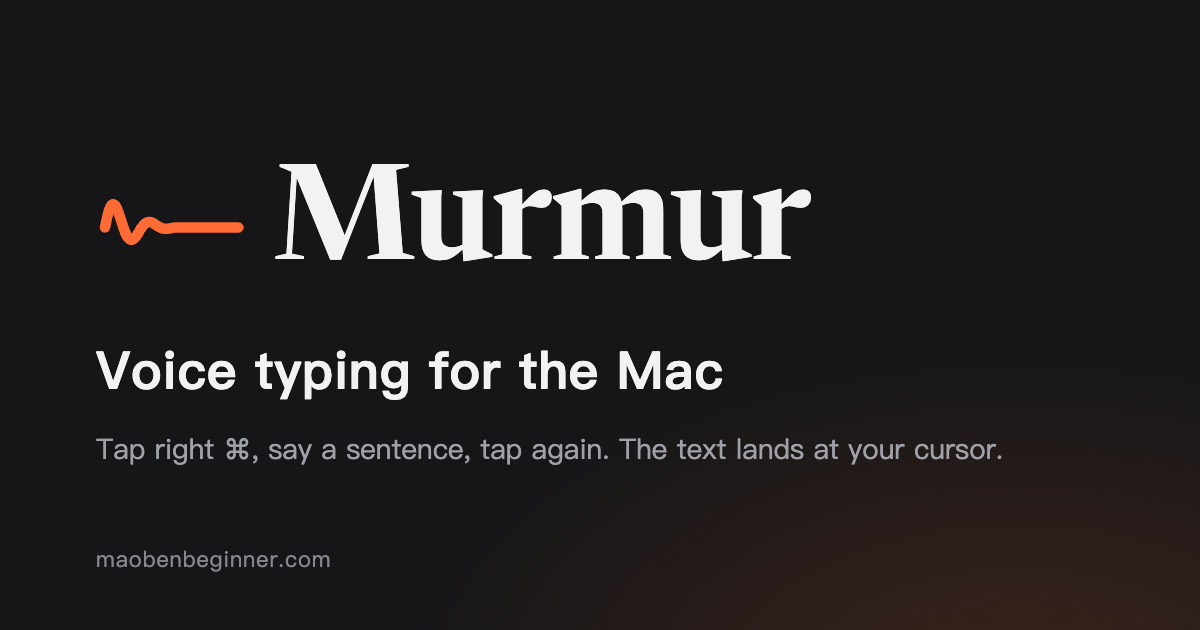
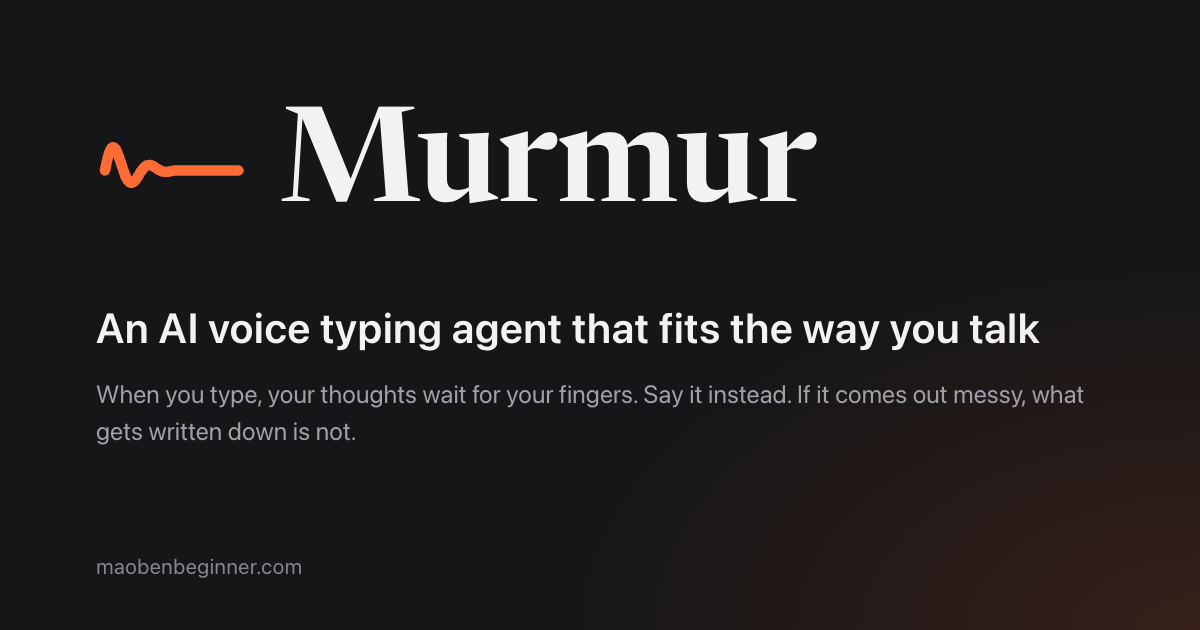
首屏换组合 B,标题做成全站常量,首屏字体统一成一种
为什么:Wei 10-13 定首屏用组合 B,标题是他口述的「符合你的 AI 智能语音输入体」(字序领导者还在和他确认,
所以做成一个常量,确认后改一处、跑一条命令全站跟着变);他还要「字体统一」:旧标题里「语音」两个字是衬线斜体、
其余是黑体,一行里两种字体两种字重。

改了什么:
- tools/hero-title.json = 中英标题与副标题的唯一出处(「|」= 两行排版的换行处);
  tools/set-hero-title.py 把它铺到中英首页的 h1 / 副标题 / <title> / description / og:title / og:description
  与全站 17 页的 og:image:alt;--check 只核对,不一致退 1。
- tools/og/render.sh + og.tpl.html:按同一份 JSON 用无头 Chrome(mock 钥匙串、临时 profile)重出 og.png / og-en.png,
  分享图上不再印「Mac 上的语音输入」。
- 首屏标题去掉 <span class="serif">,整句用站点正文的无衬线、同一字重;英文页同样统一,手机宽按词自然折行。
- 首屏其余按 round2 FINAL 组合 B:副标题;按钮「下载 Mac 版 · 关于 Windows 版 · 看演示」,手机上主按钮换「申请账号」、
  下载收起;按钮下一行「免费 · macOS 26 及以上 · M 系列芯片」;手机专用一行「现在能下载的是 Mac 版…」(桌面不显示);
  演示下一句「按一下右 ⌘ 开始,再按一下结束。」。英文同义。

验:set-hero-title.py --check 全站一致;把 JSON 里标题改一个字,--check 列出 9 页、退 1(变异抓到),还原后退 0。

Changed region(s): [[0.0617, 0.4825, 0.8942, 0.754], [0.0617, 0.1508, 0.6783, 0.4222], [0.0617, 0.8746, 0.2775, 0.9349]]

diff --git a/en/index.html b/en/index.html
@@ -5,19 +5,19 @@
 <meta http-equiv="Content-Security-Policy" content="default-src 'none'; script-src 'self' 'unsafe-inline'; style-src 'self' 'unsafe-inline'; img-src 'self' data:; font-src 'self'; connect-src 'none'; object-src 'none'; base-uri 'none'; form-action 'none'">
 <meta name="viewport" content="width=device-width, initial-scale=1">
 <script>document.documentElement.classList.add('js');</script>
-<title>Murmur · Voice typing for the Mac</title>
-<meta name="description" content="Voice typing for the Mac. Tap right ⌘, say a sentence, tap again, and the text is at your cursor. On-device or cloud recognition.">
+<title>Murmur · An AI voice typing agent that fits the way you talk</title>
+<meta name="description" content="An AI voice typing agent that fits the way you talk. When you type, your thoughts wait for your fingers. Say it instead. If it comes out messy, what gets written down is not.">
 <link rel="canonical" href="https://maobenbeginner.com/en/">
 <meta property="og:type" content="website">
 <meta property="og:site_name" content="Murmur">
 <meta property="og:locale" content="en_US">
 <meta property="og:url" content="https://maobenbeginner.com/en/">
-<meta property="og:title" content="Murmur · Voice typing for the Mac">
-<meta property="og:description" content="Voice typing for the Mac. Tap right ⌘, say a sentence, tap again, and the text is at your cursor. On-device or cloud recognition.">
+<meta property="og:title" content="Murmur · An AI voice typing agent that fits the way you talk">
+<meta property="og:description" content="An AI voice typing agent that fits the way you talk. When you type, your thoughts wait for your fingers. Say it instead. If it comes out messy, what gets written down is not.">
 <meta property="og:image" content="https://maobenbeginner.com/og-en.png">
 <meta property="og:image:width" content="1200">
 <meta property="og:image:height" content="630">
-<meta property="og:image:alt" content="Murmur · Voice typing for the Mac">
+<meta property="og:image:alt" content="Murmur · An AI voice typing agent that fits the way you talk">
 <meta name="twitter:card" content="summary_large_image">
 <link rel="icon" href="../favicon.svg" type="image/svg+xml">
 <link rel="apple-touch-icon" href="../apple-touch-icon.png">
@@ -236,7 +236,14 @@ h2 { font-size: clamp(26px, 3.4vw, 34px); font-weight: 600; line-height: 1.35; l
   font-size: clamp(34px, 5.4vw, 56px);
   font-weight: 600; line-height: 1.28; letter-spacing: .01em;
 }
-.hero h1 .serif { font-weight: 500; font-style: italic; }
+/* SITE-V3(Wei 10-13「字体统一」):首屏标题一种字体、一种字重 —— 站点正文的无衬线;不再给某几个字换衬线斜体。
+   标题和副标题的字只在 tools/hero-title.json 里写,tools/set-hero-title.py 铺到页面。 */
+.hero h1 { font-family: inherit; }
+.hero .lede, .hero .mobile-path { text-wrap: balance; }
+@media (max-width: 600px) { .hero .lede br, .hero h1 br { display: none; } }   /* 英文标题在手机上按词自然折行 */
+.hero h1 { text-wrap: balance; }
+.req { margin-top: 18px; font-size: 13.5px; color: var(--faint); letter-spacing: .02em; }
+.only-phone { display: none; }
 .hero .lede {
   color: var(--second); font-size: clamp(15.5px, 1.8vw, 17.5px);
   max-width: 34em; margin: 22px auto 0;
@@ -745,9 +752,10 @@ body.is-sandbox .sandbox { display: inline-block; }
 
 .cta-apply { display: none; }
 @media (max-width: 820px) {
+  /* 手机上 Mac 版装不了:主按钮换成「申请账号」,下载收起;关于 Windows 版、看演示照留(round2 定稿) */
   .hero .cta-apply { display: inline-block; }
-  .hero .cta-dl { background: transparent; color: var(--second); border: 1px solid var(--line2); }
-  .hero .cta-demo { display: none; }
+  .hero .cta-dl { display: none; }
+  .only-phone { display: block; }
   section { padding-top: 80px; }
   .compare, .promises { grid-template-columns: 1fr; }
   .detail-list { grid-template-columns: 1fr; }
@@ -833,26 +841,23 @@ body.is-sandbox .sandbox { display: inline-block; }
 
 <!-- ── Hero:全页最大的一场动画只留给「说完,字落下」── -->
 <header class="hero wrap" id="top">
-  <h1 class="reveal">Voice typing<br>for the <span class="serif">Mac</span>.</h1>
-  <p class="lede reveal">Put the cursor in a text field, tap right ⌘ and say a sentence. Tap again and the text is there.
-  The ums and uhs are removed, and English mixed with Chinese comes out right. It works in chat, email and the terminal. Requires macOS 26 or later.</p>
-  <!-- SITEFIX-7:手机(≤820px)上 Mac 版装不了 → 主按钮换成「申请名额」,下载降为次按钮,「看演示」收起(演示就在下面)。 -->
+  <h1 class="reveal" data-hero-title>An AI voice typing agent <br>that fits the way you talk.</h1>
+  <p class="lede reveal" data-hero-lede>When you type, your thoughts wait for your fingers. <br>Say it instead. If it comes out messy, what gets written down is not.</p>
+  <!-- SITEFIX-7 → SITE-V3:手机(≤820px)上 Mac 版装不了 → 主按钮换成「申请账号」,「下载 Mac 版」收起;关于 Windows 版、看演示照留。 -->
   <div class="cta-row reveal">
-    <a class="btn btn-primary cta-apply" href="login/index.html#apply">Ask for a seat</a>
-    <a class="btn btn-primary cta-dl" href="#download">Download for macOS</a>
+    <a class="btn btn-primary cta-dl" href="#download">Download for Mac</a>
+    <a class="btn btn-primary cta-apply" href="login/index.html#apply">Request an account</a>
     <a class="btn btn-quiet" href="#windows">About Windows</a>
     <a class="btn btn-quiet cta-demo" href="#demo">Watch the demo</a>
   </div>
-  <!-- ⭐ The path for someone on a phone: the button above is a Mac app they
-       cannot install here. Most people arriving from social links are on a
-       phone, and this line is the only road they have. Shown on desktop too —
-       one small line, it does not compete with the CTA. -->
-  <p class="mobile-path reveal">It does not install on a phone. You can <a href="login/index.html#apply">ask for a seat</a> or <a href="try/index.html">try the cleanup in the browser →</a></p>
+  <p class="req reveal">Free · macOS 26 or later · Apple silicon</p>
+  <!-- ⭐ The path for someone on a phone: the Mac app does not install there. Shown at phone widths only. -->
+  <p class="mobile-path only-phone reveal">The download is for Mac for now. On your phone, paste something you would say and <a href="try/index.html">see what it turns into →</a></p>
 
   <div class="stage reveal" id="demo">
     <div class="fake-input"><span class="ph">your cursor is here</span><span class="out"></span><span class="cursor"></span></div>
     <div class="capsule-mount" data-caption="above"></div>
-    <p class="stage-note">This capsule shows up while you speak. Press Esc to cancel the sentence.</p>
+    <p class="stage-note">Tap right ⌘ to start. Tap again to stop.</p>
   </div>
 </header>
 

diff --git a/index.html b/index.html
@@ -5,19 +5,19 @@
 <meta http-equiv="Content-Security-Policy" content="default-src 'none'; script-src 'self' 'unsafe-inline'; style-src 'self' 'unsafe-inline'; img-src 'self' data:; font-src 'self'; connect-src 'none'; object-src 'none'; base-uri 'none'; form-action 'none'">
 <meta name="viewport" content="width=device-width, initial-scale=1">
 <script>document.documentElement.classList.add('js');</script>
-<title>Murmur · Mac 上的语音输入</title>
-<meta name="description" content="Mac 上的语音输入。按右 ⌘ 说一句,再按一下,字就落在光标处。中英夹着说照样准。">
+<title>Murmur · 符合你的 AI 智能语音输入体</title>
+<meta name="description" content="符合你的 AI 智能语音输入体。打字的时候,想法要等手。说出来就不用等,说乱了也没关系,出来的是顺的。">
 <link rel="canonical" href="https://maobenbeginner.com/">
 <meta property="og:type" content="website">
 <meta property="og:site_name" content="Murmur">
 <meta property="og:locale" content="zh_CN">
 <meta property="og:url" content="https://maobenbeginner.com/">
-<meta property="og:title" content="Murmur · Mac 上的语音输入">
-<meta property="og:description" content="Mac 上的语音输入。按右 ⌘ 说一句,再按一下,字就落在光标处。中英夹着说照样准。">
+<meta property="og:title" content="Murmur · 符合你的 AI 智能语音输入体">
+<meta property="og:description" content="符合你的 AI 智能语音输入体。打字的时候,想法要等手。说出来就不用等,说乱了也没关系,出来的是顺的。">
 <meta property="og:image" content="https://maobenbeginner.com/og.png">
 <meta property="og:image:width" content="1200">
 <meta property="og:image:height" content="630">
-<meta property="og:image:alt" content="Murmur · Mac 上的语音输入">
+<meta property="og:image:alt" content="Murmur · 符合你的 AI 智能语音输入体">
 <meta name="twitter:card" content="summary_large_image">
 <link rel="alternate" hreflang="zh-CN" href="https://maobenbeginner.com/">
 <link rel="alternate" hreflang="en" href="https://maobenbeginner.com/en/">
@@ -238,7 +238,13 @@ h2 { font-size: clamp(26px, 3.4vw, 34px); font-weight: 600; line-height: 1.35; l
   font-size: clamp(34px, 5.4vw, 56px);
   font-weight: 600; line-height: 1.28; letter-spacing: .01em;
 }
-.hero h1 .serif { font-weight: 500; font-style: italic; }
+/* SITE-V3(Wei 10-13「字体统一」):首屏标题一种字体、一种字重 —— 站点正文的无衬线;不再给某几个字换衬线斜体。
+   标题和副标题的字只在 tools/hero-title.json 里写,tools/set-hero-title.py 铺到页面。 */
+.hero h1 { font-family: inherit; }
+.hero .lede, .hero .mobile-path { text-wrap: balance; }
+@media (max-width: 600px) { .hero .lede br { display: none; } }
+.req { margin-top: 18px; font-size: 13.5px; color: var(--faint); letter-spacing: .02em; }
+.only-phone { display: none; }
 .hero .lede {
   color: var(--second); font-size: clamp(15.5px, 1.8vw, 17.5px);
   max-width: 34em; margin: 22px auto 0;
@@ -747,9 +753,10 @@ body.is-sandbox .sandbox { display: inline-block; }
 
 .cta-apply { display: none; }
 @media (max-width: 820px) {
+  /* 手机上 Mac 版装不了:主按钮换成「申请账号」,下载收起;关于 Windows 版、看演示照留(round2 定稿) */
   .hero .cta-apply { display: inline-block; }
-  .hero .cta-dl { background: transparent; color: var(--second); border: 1px solid var(--line2); }
-  .hero .cta-demo { display: none; }
+  .hero .cta-dl { display: none; }
+  .only-phone { display: block; }
   section { padding-top: 80px; }
   .compare, .promises { grid-template-columns: 1fr; }
   .detail-list { grid-template-columns: 1fr; }
@@ -835,25 +842,23 @@ body.is-sandbox .sandbox { display: inline-block; }
 
 <!-- ── Hero:全页最大的一场动画只留给「说完,字落下」── -->
 <header class="hero wrap" id="top">
-  <h1 class="reveal">Mac 上的<br><span class="serif">语音</span>输入。</h1>
-  <p class="lede reveal">光标放进输入框,按右 ⌘ 说一句,再按一下,字就在那儿。
-  嗯、啊、那个自动去掉,中英夹着说照样准。微信、邮件、终端里都能用。macOS 26 以上。</p>
-  <!-- SITEFIX-7:手机(≤820px)上 Mac 版装不了 → 主按钮换成「申请名额」,下载降为次按钮,「看演示」收起(演示就在下面)。 -->
+  <h1 class="reveal" data-hero-title>符合你的 <br>AI 智能语音输入体。</h1>
+  <p class="lede reveal" data-hero-lede>打字的时候,想法要等手。<br>说出来就不用等,说乱了也没关系,出来的是顺的。</p>
+  <!-- SITEFIX-7 → SITE-V3:手机(≤820px)上 Mac 版装不了 → 主按钮换成「申请账号」,「下载 Mac 版」收起;关于 Windows 版、看演示照留。 -->
   <div class="cta-row reveal">
-    <a class="btn btn-primary cta-apply" href="login/index.html#apply">申请名额</a>
-    <a class="btn btn-primary cta-dl" href="#download">下载 macOS 版</a>
+    <a class="btn btn-primary cta-dl" href="#download">下载 Mac 版</a>
+    <a class="btn btn-primary cta-apply" href="login/index.html#apply">申请账号</a>
     <a class="btn btn-quiet" href="#windows">关于 Windows 版</a>
     <a class="btn btn-quiet cta-demo" href="#demo">看演示</a>
   </div>
-  <!-- ⭐ 手机上的那条路:上面那枚「下载」是 Mac 版,在手机上装不了。
-       从微信 / 小红书点进来的人多数在手机上,这一行是他们唯一能走的路。
-       桌面上也显示 —— 一行小字,不抢 CTA。 -->
-  <p class="mobile-path reveal">手机上装不了。可以先<a href="login/index.html#apply">申请名额</a>,或者<a href="try/index.html">在网页上试整理 →</a></p>
+  <p class="req reveal">免费 · macOS 26 及以上 · M 系列芯片</p>
+  <!-- ⭐ 手机上的那条路:从微信 / 小红书点进来的人多数在手机上,Mac 版装不了,这一行是他们能走的路。只在手机宽度显示。 -->
+  <p class="mobile-path only-phone reveal">现在能下载的是 Mac 版。在手机上,可以先粘一句平时说的话,<a href="try/index.html">看它改成什么样 →</a></p>
 
   <div class="stage reveal" id="demo">
     <div class="fake-input"><span class="ph">光标在这里</span><span class="out"></span><span class="cursor"></span></div>
     <div class="capsule-mount" data-caption="above"></div>
-    <p class="stage-note">说话时会出现这条胶囊。按 Esc 取消这一句。</p>
+    <p class="stage-note">按一下右 ⌘ 开始,再按一下结束。</p>
   </div>
 </header>
 

diff --git a/tools/og/og.tpl.html b/tools/og/og.tpl.html
@@ -1,0 +1,30 @@
+<!doctype html>
+<html lang="{{LANG}}">
+<head>
+<meta charset="utf-8">
+<!-- 分享图模板(1200×630)。tools/og/render.sh 按 tools/hero-title.json 填字后用无头 Chrome 截图;不对外发布。 -->
+<style>
+@font-face { font-family: 'Newsreader'; font-weight: 500 600; src: url('{{FONTS}}/Newsreader-normal-500-latin.woff2') format('woff2'); }
+html, body { margin: 0; width: 1200px; height: 630px; overflow: hidden; }
+body {
+  background: radial-gradient(900px 520px at 100% 100%, rgba(226, 83, 31, .16), transparent 70%), #161618;
+  color: #F2F2F4; -webkit-font-smoothing: antialiased;
+  font-family: -apple-system, BlinkMacSystemFont, "PingFang SC", "Hiragino Sans GB", sans-serif;
+  box-sizing: border-box; padding: 104px 96px 52px; display: flex; flex-direction: column;
+}
+.brand { display: flex; align-items: center; gap: 34px; }
+.brand svg { width: 150px; height: 75px; }
+.brand b { font-family: "Newsreader", Georgia, serif; font-weight: 600; font-size: 132px; line-height: 1; letter-spacing: -.01em; }
+h1 { margin: 64px 0 0; font-size: 46px; text-wrap: balance; font-weight: 600; line-height: 1.3; letter-spacing: .01em; }
+html[lang=en] h1 { font-size: 42px; }
+p { margin: 20px 0 0; font-size: 25px; text-wrap: pretty; line-height: 1.5; color: #A0A0A8; max-width: 1000px; }
+.site { margin-top: auto; font-size: 21px; color: #86868E; letter-spacing: .02em; }
+</style>
+</head>
+<body>
+<div class="brand"><svg viewBox="0 0 200 100" aria-hidden="true"><path d="M12.0 50.0 L14.0 40.1 L16.0 31.7 L18.0 25.2 L20.0 21.0 L22.0 19.0 L24.0 19.2 L26.0 21.3 L28.0 25.2 L30.0 30.3 L32.0 36.2 L34.0 42.4 L36.0 48.5 L38.0 54.2 L40.0 59.0 L42.0 62.7 L44.0 65.2 L46.0 66.5 L48.0 66.5 L50.0 65.5 L52.0 63.5 L54.0 60.9 L56.0 57.8 L58.0 54.6 L60.0 51.5 L62.0 48.6 L64.0 46.2 L66.0 44.4 L68.0 43.2 L70.0 42.7 L72.0 42.7 L74.0 43.2 L76.0 44.1 L78.0 45.3 L80.0 46.7 L82.0 48.0 L84.0 49.2 L86.0 50.2 L88.0 51.0 L90.0 51.5 L92.0 51.8 L94.0 51.8 L96.0 51.6 L98.0 51.3 L100.0 50.9 L102.0 50.5 L104.0 50.2 L106.0 50.0 L190 50" fill="none" stroke="#FF6B35" stroke-width="14" stroke-linecap="round" stroke-linejoin="round"/></svg><b>Murmur</b></div>
+<h1>{{TITLE}}</h1>
+<p>{{LEDE}}</p>
+<div class="site">maobenbeginner.com</div>
+</body>
+</html>

diff --git a/en/skills/index.html b/en/skills/index.html
@@ -17,7 +17,7 @@
 <meta property="og:image" content="https://maobenbeginner.com/og-en.png">
 <meta property="og:image:width" content="1200">
 <meta property="og:image:height" content="630">
-<meta property="og:image:alt" content="Murmur · Voice typing for the Mac">
+<meta property="og:image:alt" content="Murmur · An AI voice typing agent that fits the way you talk">
 <meta name="twitter:card" content="summary_large_image">
 <link rel="alternate" hreflang="zh-CN" href="https://maobenbeginner.com/skills/">
 <link rel="alternate" hreflang="en" href="https://maobenbeginner.com/en/skills/">

diff --git a/en/guide/index.html b/en/guide/index.html
@@ -17,7 +17,7 @@
 <meta property="og:image" content="https://maobenbeginner.com/og-en.png">
 <meta property="og:image:width" content="1200">
 <meta property="og:image:height" content="630">
-<meta property="og:image:alt" content="Murmur · Voice typing for the Mac">
+<meta property="og:image:alt" content="Murmur · An AI voice typing agent that fits the way you talk">
 <meta name="twitter:card" content="summary_large_image">
 <link rel="alternate" hreflang="zh-CN" href="https://maobenbeginner.com/guide/">
 <link rel="alternate" hreflang="en" href="https://maobenbeginner.com/en/guide/">

diff --git a/en/demo/index.html b/en/demo/index.html
@@ -20,7 +20,7 @@
 <meta property="og:image" content="https://maobenbeginner.com/og-en.png">
 <meta property="og:image:width" content="1200">
 <meta property="og:image:height" content="630">
-<meta property="og:image:alt" content="Murmur · Voice typing for the Mac">
+<meta property="og:image:alt" content="Murmur · An AI voice typing agent that fits the way you talk">
 <meta name="twitter:card" content="summary_large_image">
 <link rel="alternate" hreflang="zh-CN" href="https://maobenbeginner.com/demo/">
 <link rel="alternate" hreflang="en" href="https://maobenbeginner.com/en/demo/">

diff --git a/en/try/index.html b/en/try/index.html
@@ -19,7 +19,7 @@
 <meta property="og:image" content="https://maobenbeginner.com/og-en.png">
 <meta property="og:image:width" content="1200">
 <meta property="og:image:height" content="630">
-<meta property="og:image:alt" content="Murmur · Voice typing for the Mac">
+<meta property="og:image:alt" content="Murmur · An AI voice typing agent that fits the way you talk">
 <meta name="twitter:card" content="summary_large_image">
 <link rel="alternate" hreflang="zh-CN" href="https://maobenbeginner.com/try/">
 <link rel="alternate" hreflang="en" href="https://maobenbeginner.com/en/try/">

diff --git a/privacy.html b/privacy.html
@@ -17,7 +17,7 @@
 <meta property="og:image" content="https://maobenbeginner.com/og.png">
 <meta property="og:image:width" content="1200">
 <meta property="og:image:height" content="630">
-<meta property="og:image:alt" content="Murmur · Mac 上的语音输入">
+<meta property="og:image:alt" content="Murmur · 符合你的 AI 智能语音输入体">
 <meta name="twitter:card" content="summary_large_image">
 <link rel="alternate" hreflang="zh-CN" href="https://maobenbeginner.com/privacy.html">
 <link rel="alternate" hreflang="en" href="https://maobenbeginner.com/en/privacy.html">

diff --git a/tos.html b/tos.html
@@ -16,7 +16,7 @@
 <meta property="og:image" content="https://maobenbeginner.com/og.png">
 <meta property="og:image:width" content="1200">
 <meta property="og:image:height" content="630">
-<meta property="og:image:alt" content="Murmur · Mac 上的语音输入">
+<meta property="og:image:alt" content="Murmur · 符合你的 AI 智能语音输入体">
 <meta name="twitter:card" content="summary_large_image">
 <link rel="alternate" hreflang="zh-CN" href="https://maobenbeginner.com/tos.html">
 <link rel="alternate" hreflang="en" href="https://maobenbeginner.com/en/tos.html">

diff --git a/skills/index.html b/skills/index.html
@@ -17,7 +17,7 @@
 <meta property="og:image" content="https://maobenbeginner.com/og.png">
 <meta property="og:image:width" content="1200">
 <meta property="og:image:height" content="630">
-<meta property="og:image:alt" content="Murmur · Mac 上的语音输入">
+<meta property="og:image:alt" content="Murmur · 符合你的 AI 智能语音输入体">
 <meta name="twitter:card" content="summary_large_image">
 <link rel="alternate" hreflang="zh-CN" href="https://maobenbeginner.com/skills/">
 <link rel="alternate" hreflang="en" href="https://maobenbeginner.com/en/skills/">

diff --git a/guide/index.html b/guide/index.html
@@ -17,7 +17,7 @@
 <meta property="og:image" content="https://maobenbeginner.com/og.png">
 <meta property="og:image:width" content="1200">
 <meta property="og:image:height" content="630">
-<meta property="og:image:alt" content="Murmur · Mac 上的语音输入">
+<meta property="og:image:alt" content="Murmur · 符合你的 AI 智能语音输入体">
 <meta name="twitter:card" content="summary_large_image">
 <link rel="alternate" hreflang="zh-CN" href="https://maobenbeginner.com/guide/">
 <link rel="alternate" hreflang="en" href="https://maobenbeginner.com/en/guide/">

diff --git a/demo/index.html b/demo/index.html
@@ -20,7 +20,7 @@
 <meta property="og:image" content="https://maobenbeginner.com/og.png">
 <meta property="og:image:width" content="1200">
 <meta property="og:image:height" content="630">
-<meta property="og:image:alt" content="Murmur · Mac 上的语音输入">
+<meta property="og:image:alt" content="Murmur · 符合你的 AI 智能语音输入体">
 <meta name="twitter:card" content="summary_large_image">
 <link rel="alternate" hreflang="zh-CN" href="https://maobenbeginner.com/demo/">
 <link rel="alternate" hreflang="en" href="https://maobenbeginner.com/en/demo/">
